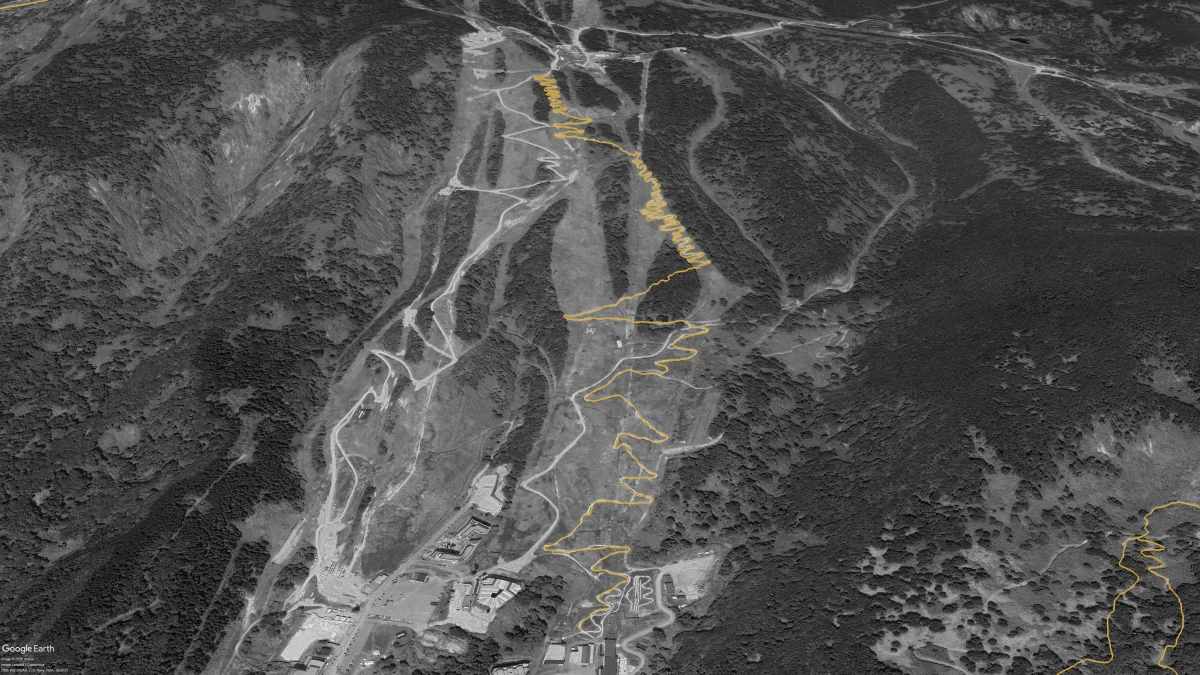
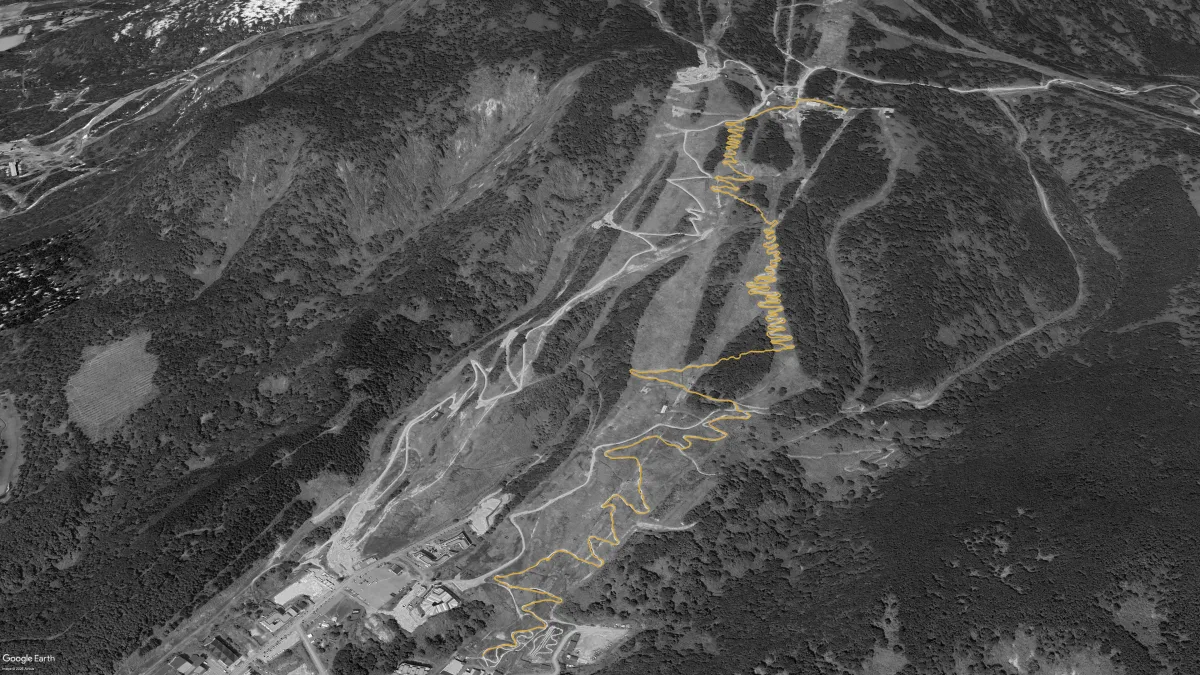
projects/grand-hirafu: rework timeline (built 2023 / opens 2024) + 4-tile phase grid
Tokyu built the first flow trail in 2023 but the park didn't open until 2024.
Move Kaikan Rebuild from 2024 to 2025 where it actually happened, add a 2025
phase tile, and refresh all four maps from new sources. Mirror the EN/JA pages.

diff --git a/ja/projects/grand-hirafu/index.html b/ja/projects/grand-hirafu/index.html
@@ -131,24 +131,24 @@ og:
       <div class="journey-row left">
         <div class="journey-card">
           <div class="journey-year">2023</div>
-          <div class="journey-head">5.3km · 東急がフロートレイルをオープン</div>
-          <p class="journey-desc">グラン・ヒラフがコロナ禍の休止期間を経て再開。東急建設が新設した3本のトップ・ツー・ボトムフロートレイル(カミワザ、クロオビ、カイカン)が完成。同じ年にツインピークスがオープンするのを見て、東急は今後のトレイル建設をNAMBAに委ねる決断を下す。</p>
+          <div class="journey-head">東急が最初のフロートレイルを建設</div>
+          <p class="journey-desc">東急が新しいトップ・トゥ・ボトムのフロートレイルの建設を開始。2023年の終わりにツインピークスが開業するのを見て、東急は今後のトレイル建設にNAMBAとの協働を呼びかける。</p>
         </div>
         <div class="journey-nub"></div>
       </div>
       <div class="journey-row right">
         <div class="journey-card">
           <div class="journey-year">2024</div>
-          <div class="journey-head">3.6km · NAMBAが引き継ぐ</div>
-          <p class="journey-desc">NAMBAは下部のトレイル(カイカンリビルド)を初心者にもやさしいコースにリワーク。続いて、ツインピークスへ向かうコネクタートレイル(キングスハイ、キーパス)の建設を開始。</p>
+          <div class="journey-head">バイクパーク開業 · NAMBAが引き継ぐ</div>
+          <p class="journey-desc">グラン・ヒラフバイクパークが、コロナ禍による中断を経て、東急建設のフロートレイルとゴンドラアクセス付きで再開。NAMBAはツインピークスへ向かうコネクタートレイル(キングスハイ、キーパス)の建設を開始。</p>
         </div>
         <div class="journey-nub"></div>
       </div>
       <div class="journey-row left">
         <div class="journey-card">
           <div class="journey-year">2025</div>
-          <div class="journey-head">ブルーニとヴィンクを招聘</div>
-          <p class="journey-desc">NAMBAはグラン・ヒラフの旗艦プロジェクトを企画し、ロイック・ブルーニとニコ・ヴィンクを招いて計画に参加してもらう。新設のエース・ゴンドラへの切り替え準備もスタート。</p>
+          <div class="journey-head">カイカンリビルド · ブルーニとヴィンクを招聘</div>
+          <p class="journey-desc">NAMBAは下部のトレイル(カイカン)を初心者にもやさしいコースにリワーク。グラン・ヒラフの旗艦プロジェクトを企画し、ロイック・ブルーニとニコ・ヴィンクを招いて計画に参加してもらう。新設のエース・ゴンドラへの切り替え準備もスタート。</p>
         </div>
         <div class="journey-nub"></div>
       </div>
@@ -176,7 +176,7 @@ og:
         class="features-desc ja-animate"
         data-animation="move-from-bottom"
         data-delay="400">
-        <div style="font-size:130%;"><span>東急は2023年にグラン・ヒラフで最初の3本のフロートレイルをオープンしました。同じ年にツインピークスがオープンするのを見て、今後のトレイル設計、建設、サイネージをNAMBAに任せることを決定。グラン・ヒラフは、地域マスタープランに組み込まれた2番目のリゾートとなりました。</span></div>
+        <div style="font-size:130%;"><span>東急は2023年にグラン・ヒラフで最初のフロートレイルを建設し、バイクパーク再開に合わせて2024年に一般公開しました。2023年の終わりにツインピークスが開業するのを見て、今後のトレイル設計、建設、サイネージにNAMBAとの協働を呼びかけることを決定。グラン・ヒラフは、地域マスタープランに組み込まれた2番目のリゾートとなりました。</span></div>
       </div>
     </div>
 
@@ -202,27 +202,37 @@ og:
       <a class="phase-tile" href="/assets/images/projects/grand-hirafu/2023-large.webp"
          data-pswp-width="2400" data-pswp-height="1350" target="_blank" rel="noopener">
         <img src="/assets/images/projects/grand-hirafu/2023.webp"
-             alt="2023年のグラン・ヒラフ上空写真。東急建設の最初の5.3kmのトップトゥボトムフロートレイルが金色で描かれている"
+             alt="2023年のグラン・ヒラフ上空写真。東急の新しいトップ・トゥ・ボトムのフロートレイルが金色で描かれている。まだ一般公開はされていない。"
              loading="lazy">
         <div class="caption">
           <div class="year">2023</div>
-          <div class="label">5.3km · 東急がフローをオープン</div>
+          <div class="label">5.3km建設 · 東急の最初のフロートレイル</div>
         </div>
       </a>
       <a class="phase-tile" href="/assets/images/projects/grand-hirafu/2024-large.webp"
          data-pswp-width="2400" data-pswp-height="1350" target="_blank" rel="noopener">
         <img src="/assets/images/projects/grand-hirafu/2024.webp"
-             alt="2024年のグラン・ヒラフ上空写真。NAMBAによる「カイカン」リビルドと、ツインピークス方面への新しいコネクタートレイル"
+             alt="2024年のグラン・ヒラフ上空写真。バイクパークが開業し、NAMBAの最初のコネクタートレイル(キングスハイ、キーパス)がツインピークス方面へ延びている。"
              loading="lazy">
         <div class="caption">
           <div class="year">2024</div>
-          <div class="label">3.6km · NAMBAが引き継ぐ</div>
+          <div class="label">バイクパーク開業 · NAMBAの最初のコネクター</div>
+        </div>
+      </a>
+      <a class="phase-tile" href="/assets/images/projects/grand-hirafu/2025-large.webp"
+         data-pswp-width="2400" data-pswp-height="1350" target="_blank" rel="noopener">
+        <img src="/assets/images/projects/grand-hirafu/2025.webp"
+             alt="2025年のグラン・ヒラフ上空写真。NAMBAによるカイカンリビルド、初心者にやさしくリワークされた下部トレイル。"
+             loading="lazy">
+        <div class="caption">
+          <div class="year">2025</div>
+          <div class="label">カイカンリビルド</div>
         </div>
       </a>
       <a class="phase-tile" href="/assets/images/projects/grand-hirafu/2026-large.webp"
          data-pswp-width="2400" data-pswp-height="1350" target="_blank" rel="noopener">
         <img src="/assets/images/projects/grand-hirafu/2026.webp"
-             alt="2026年のグラン・ヒラフ上空写真。新設の「エースゴンドラ」に接続する新しいロウアーブルートレイル"
+             alt="2026年のグラン・ヒラフ上空写真。新設のエース・ゴンドラのベースに接続する2kmのロウアーブルートレイル。"
              loading="lazy">
         <div class="caption">
           <div class="year">2026</div>

diff --git a/projects/grand-hirafu/index.html b/projects/grand-hirafu/index.html
@@ -131,24 +131,24 @@ og:
       <div class="journey-row left">
         <div class="journey-card">
           <div class="journey-year">2023</div>
-          <div class="journey-head">5.3km · Tokyu opens flow trails</div>
-          <p class="journey-desc">Grand Hirafu reopens after its COVID hiatus with three new Tokyu-built top-to-bottom flow trails: Kamiwaza, Kuro Obi, and Kaikan. After watching Twin Peaks open, Tokyu invites NAMBA to take over future trail building at the resort.</p>
+          <div class="journey-head">Tokyu builds the first flow trail</div>
+          <p class="journey-desc">Tokyu starts building a new top-to-bottom flow trail. After Twin Peaks opens at the end of 2023, Tokyu invites NAMBA to collaborate on future trail building at the resort.</p>
         </div>
         <div class="journey-nub"></div>
       </div>
       <div class="journey-row right">
         <div class="journey-card">
           <div class="journey-year">2024</div>
-          <div class="journey-head">3.6km · NAMBA takes over</div>
-          <p class="journey-desc">NAMBA reworks the lower trail (Kaikan Rebuild) into a friendlier ride for beginners, then starts pushing connector trails (Kings High, Key Path) toward Twin Peaks.</p>
+          <div class="journey-head">Bike Park opens · NAMBA takes over</div>
+          <p class="journey-desc">Grand Hirafu Bike Park reopens after its COVID hiatus with the Tokyu-built flow trail and full gondola access. NAMBA starts pushing connector trails (Kings High, Key Path) toward Twin Peaks.</p>
         </div>
         <div class="journey-nub"></div>
       </div>
       <div class="journey-row left">
         <div class="journey-card">
           <div class="journey-year">2025</div>
-          <div class="journey-head">Bruni and Vink at the table</div>
-          <p class="journey-desc">NAMBA pitches a flagship project for Grand Hirafu and brings Loic Bruni and Nico Vink over to help plan it. Prep work starts for the resort's switch to the new Ace Gondola.</p>
+          <div class="journey-head">Kaikan Rebuild · Bruni and Vink at the table</div>
+          <p class="journey-desc">NAMBA reworks the lower trail (Kaikan) into a friendlier ride for beginners. Pitches a flagship project for Grand Hirafu and brings Loic Bruni and Nico Vink over to help plan it. Prep work starts for the resort's switch to the new Ace Gondola.</p>
         </div>
         <div class="journey-nub"></div>
       </div>
@@ -176,7 +176,7 @@ og:
         class="features-desc ja-animate"
         data-animation="move-from-bottom"
         data-delay="400">
-        <div style="font-size:130%;"><span>Tokyu opened their first three flow trails at Grand Hirafu in 2023. After watching Twin Peaks open the same year, they invited NAMBA in to take over future trail design, building, and signage. Grand Hirafu became the second resort to plug into the regional masterplan.</span></div>
+        <div style="font-size:130%;"><span>Tokyu built their first flow trail at Grand Hirafu in 2023, opening it to the public in 2024 when the bike park reopened. After watching Twin Peaks open at the end of 2023, they invited NAMBA in to collaborate on future trail design, building, and signage. Grand Hirafu became the second resort to plug into the regional masterplan.</span></div>
       </div>
     </div>
 
@@ -202,27 +202,37 @@ og:
       <a class="phase-tile" href="/assets/images/projects/grand-hirafu/2023-large.webp"
          data-pswp-width="2400" data-pswp-height="1350" target="_blank" rel="noopener">
         <img src="/assets/images/projects/grand-hirafu/2023.webp"
-             alt="Aerial view of Grand Hirafu in 2023 with the first 5.3km of Tokyu-built top-to-bottom flow trails traced in gold down the resort"
+             alt="Aerial view of Grand Hirafu in 2023 with Tokyu's new top-to-bottom flow trail traced in gold, built but not yet open to the public"
              loading="lazy">
         <div class="caption">
           <div class="year">2023</div>
-          <div class="label">5.3km · Tokyu opens flow trails</div>
+          <div class="label">5.3km built · Tokyu's first flow trail</div>
         </div>
       </a>
       <a class="phase-tile" href="/assets/images/projects/grand-hirafu/2024-large.webp"
          data-pswp-width="2400" data-pswp-height="1350" target="_blank" rel="noopener">
         <img src="/assets/images/projects/grand-hirafu/2024.webp"
-             alt="Aerial view of Grand Hirafu in 2024 showing NAMBA's Kaikan rebuild and new connector trails toward Twin Peaks"
+             alt="Aerial view of Grand Hirafu in 2024 with the bike park open and NAMBA's first connector trails (Kings High, Key Path) pushing toward Twin Peaks"
              loading="lazy">
         <div class="caption">
           <div class="year">2024</div>
-          <div class="label">3.6km · NAMBA takes over</div>
+          <div class="label">Bike Park opens · NAMBA's first connectors</div>
+        </div>
+      </a>
+      <a class="phase-tile" href="/assets/images/projects/grand-hirafu/2025-large.webp"
+         data-pswp-width="2400" data-pswp-height="1350" target="_blank" rel="noopener">
+        <img src="/assets/images/projects/grand-hirafu/2025.webp"
+             alt="Aerial view of Grand Hirafu in 2025 showing NAMBA's Kaikan Rebuild, the lower trail reworked into a friendlier beginner ride"
+             loading="lazy">
+        <div class="caption">
+          <div class="year">2025</div>
+          <div class="label">Kaikan Rebuild</div>
         </div>
       </a>
       <a class="phase-tile" href="/assets/images/projects/grand-hirafu/2026-large.webp"
          data-pswp-width="2400" data-pswp-height="1350" target="_blank" rel="noopener">
         <img src="/assets/images/projects/grand-hirafu/2026.webp"
-             alt="Aerial view of Grand Hirafu in 2026 with the new Lower Blue trail linking the network to the newly installed Ace Gondola"
+             alt="Aerial view of Grand Hirafu in 2026 with the 2km Lower Blue linking the network to the newly installed Ace Gondola base"
              loading="lazy">
         <div class="caption">
           <div class="year">2026</div>
